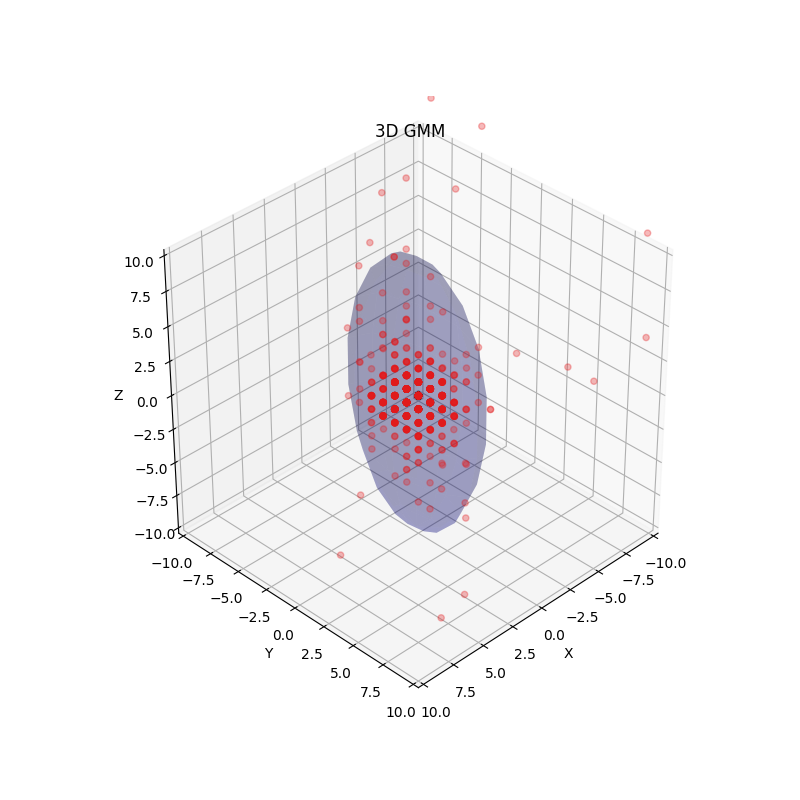
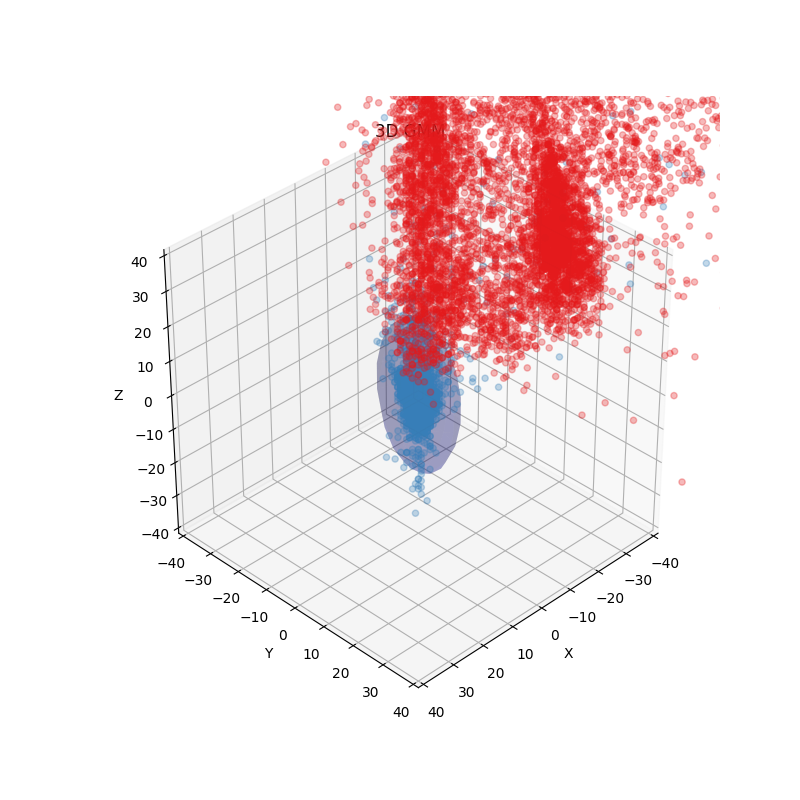
gauss mixture integrated

diff --git a/gauss_mixture.py b/gauss_mixture.py
@@ -6,7 +6,8 @@ import os
 import numpy as np
 from sklearn.mixture import GaussianMixture, BayesianGaussianMixture
 
-def visualize_3d_gmm(points, w, mu, stdev, export=True):
+
+def visualize_3d_gmm(points, points2, w, mu, stdev, export=True):
     '''
     plots points and their corresponding gmm model in 3D
     Input:
@@ -23,16 +24,21 @@ def visualize_3d_gmm(points, w, mu, stdev, export=True):
     # Visualize data
     fig = plt.figure(figsize=(8, 8))
     axes = fig.add_subplot(111, projection='3d')
-    n = 10
+    n = 40
     axes.set_xlim(np.array([-1, 1])*n)
     axes.set_ylim(np.array([-1, 1])*n)
     axes.set_zlim(np.array([-1, 1])*n)
     plt.set_cmap('Set1')
-    colors = cmx.Set1(np.linspace(0, 1, n_gaussians))
-    for i in range(n_gaussians):
+    colors = cmx.Set1([0, 1])
+    for i in range(1):
         idx = range(i * N, (i + 1) * N)
-        axes.scatter(points[idx, 0], points[idx, 1], points[idx, 2], alpha=0.3, c=colors[i])
+        axes.scatter(points[idx, 0], points[idx, 1], points[idx, 2], alpha=0.3, c=colors[1])
         plot_sphere(w=w[i], c=mu[:, i], r=stdev[:, i], ax=axes)
+
+    N = int(np.round(points2.shape[0] / n_gaussians))
+    for i in range(1):
+        idx = range(i * N, (i + 1) * N)
+        axes.scatter(points2[idx, 0], points2[idx, 1], points2[idx, 2], alpha=0.3, c=colors[0])
 
     plt.title('3D GMM')
     axes.set_xlabel('X')
@@ -45,7 +51,7 @@ def visualize_3d_gmm(points, w, mu, stdev, export=True):
     plt.show()
 
 
-def plot_sphere(w=0, c=[0,0,0], r=[1, 1, 1], subdev=10, ax=None, sigma_multiplier=3):
+def plot_sphere(w=0, c=[0,0,0], r=[1, 1, 1], subdev=10, ax=None, sigma_multiplier=1):
     '''
         plot a sphere surface
         Input:
@@ -112,132 +118,89 @@ def visualize_2D_gmm(points, w, mu, stdev, export=True):
 
     plt.show()
 
-def efit(x, y, z):
-    x = np.asarray(x, float)
-    y = np.asarray(y, float)
-    z = np.asarray(z, float)
-    D = [
-        x * x + y * y - 2 * z * z, x * x + z * z - 2 * y * y, 2 * x * y,
-        2 * x * z, 2 * y * z, 2 * x, 2 * y, 2 * z, 1 + 0 * x
-    ]
-    D = np.array(D)
 
-    d2 = x * x + y * y + z * z
-    d2 = d2.reshape((d2.shape[0], 1))
-    Q = np.dot(D, D.T)
-    b = np.dot(D, d2)
-    u = np.linalg.solve(Q, b)
-
-    v = np.zeros((u.shape[0] + 1, u.shape[1]))
-    v[0] = u[0] + u[1] - 1
-    v[1] = u[0] - 2 * u[1] - 1
-    v[2] = u[1] - 2 * u[0] - 1
-    v[3:10] = u[2:9]
-
-    A = np.array([
-        v[0], v[3], v[4], v[6], v[3], v[1], v[5], v[7], v[4], v[5], v[2], v[8],
-        v[6], v[7], v[8], v[9]
-    ]).reshape((4, 4))
-
-    center = np.linalg.solve(-A[:3, :3], v[6:9])
-    T = np.eye(4)
-    T[3, :3] = center.T
-    center = center.reshape((3, ))
-    R = T.dot(A).dot(T.conj().T)
-    evals, evecs = np.linalg.eig(R[:3, :3] / -R[3, 3])
-
-    idx = np.argsort(evals)
-    evals = evals[idx]
-    evecs = evecs[:, idx]
-    sgns = np.sign(evals)
-    radii = np.sqrt(sgns / evals)
-
-    d = np.array([x - center[0], y - center[1], z - center[2]])
-    d = np.dot(d.T, evecs)
-    d = np.array([d[:, 0] / radii[0], d[:, 1] / radii[1],
-                  d[:, 2] / radii[2]]).T
-    chi2 = np.sum(
-        np.abs(1 - np.sum(d**2 * np.tile(sgns, (d.shape[0], 1)), axis=1)))
-
-    return center, radii, evecs, v, chi2
+def remove_noise_gauss(pts, std_iters=2, std_range=2, axis=0):
+    for i in range(std_iters):
+        mean, std = np.mean(pts[:, axis]), np.std(pts[:, axis])
+        pts = pts[np.abs((pts[:, axis] - mean)) < std_range * std]
+    return pts
 
 
+def get_elps_pts(pts, c, r):
+    arr = ((pts[:, 0] - c[0])**2 / (r[0]**2) + (pts[:, 1] - c[1])**2 / (r[1]**2) + (pts[:, 2] - c[2])**2 / (r[2]**2)) \
+          < 1
+    return pts[arr]
 
-bckg_pts_all = np.load("/home/cstar/workspace/grid-data/bckg_pts_all.npy")[::1000]
-frg_pts_all = np.load("/home/cstar/workspace/grid-data/frg_pts_all.npy")
-print("bckg_pts shape: ", bckg_pts_all.shape, bckg_pts_all.dtype)
 
-bckg_pts_all = bckg_pts_all[np.abs(bckg_pts_all[:,0]) < 10]
-bckg_pts_all = bckg_pts_all[np.abs(bckg_pts_all[:,1]) < 50]
-bckg_pts_all = bckg_pts_all[np.abs(bckg_pts_all[:,2]) < 50]
+def get_ellipse(bckg_pts_all, frg_pts_all):
+    bckg_pts_all_prev = bckg_pts_all.copy()
+    bckg_pts_all = remove_noise_gauss(bckg_pts_all, std_iters=1, std_range=7, axis=0)
+    bckg_pts_all = remove_noise_gauss(bckg_pts_all, std_iters=1, std_range=7, axis=1)
+    bckg_pts_all = remove_noise_gauss(bckg_pts_all, std_iters=1, std_range=7, axis=2)
 
-histogram, bin_edges = np.histogram(bckg_pts_all[:,2], bins=512, range=(-100, 100))
+    histogram, bin_edges = np.histogram(bckg_pts_all[:, 0], bins=512, range=(-100, 100))
+    plt.figure()
+    plt.title("Image Difference Histogram, #1")
+    plt.xlabel("Intensity")
+    plt.ylabel("Count")
+    plt.ylim([0, 100])  # <- named arguments do not work here
+    plt.plot(bin_edges[0:-1], histogram)  # <- or here
+    plt.show()
 
-plt.figure()
-plt.title("Image Difference Histogram, #1")
-plt.xlabel("Intensity")
-plt.ylabel("Count")
-plt.ylim([0, 100])  # <- named arguments do not work here
-plt.plot(bin_edges[0:-1], histogram)  # <- or here
-plt.show()
-# create the histogram, plot #2
+    # create the histogram, plot #2
 
-x_mean, x_std = np.mean(bckg_pts_all[:, 0]), np.std(bckg_pts_all[:, 0])
-y_mean, y_std = np.mean(bckg_pts_all[:, 1]), np.std(bckg_pts_all[:, 1])
-z_mean, z_std = np.mean(bckg_pts_all[:, 2]), np.std(bckg_pts_all[:, 2])
+    # x_mean, x_std = np.mean(bckg_pts_all[:, 0]), np.std(bckg_pts_all[:, 0])
+    # y_mean, y_std = np.mean(bckg_pts_all[:, 1]), np.std(bckg_pts_all[:, 1])
+    # z_mean, z_std = np.mean(bckg_pts_all[:, 2]), np.std(bckg_pts_all[:, 2])
 
-# bckg_pts_all[:, 0] = (bckg_pts_all[:, 0] - x_mean) / x_std
-# bckg_pts_all[:, 1] = (bckg_pts_all[:, 1] - y_mean) / y_std
-# bckg_pts_all[:, 2] = (bckg_pts_all[:, 2] - z_mean) / z_std
+    # bckg_pts_all[:, 0] = (bckg_pts_all[:, 0] - x_mean) / x_std
+    # bckg_pts_all[:, 1] = (bckg_pts_all[:, 1] - y_mean) / y_std
+    # bckg_pts_all[:, 2] = (bckg_pts_all[:, 2] - z_mean) / z_std
 
-print(x_mean, x_std)
-print(y_mean, y_std)
-print(z_mean, z_std)
-## Generate synthetic data
-N, D = 1000, 3  # number of points and dimenstinality
+    n_gaussians = 1  # means.shape[0]
+    #
+    points = bckg_pts_all.copy()
+
+    # fit the gaussian model
+    gmm = BayesianGaussianMixture(n_components=n_gaussians, covariance_type='diag', weight_concentration_prior=1,
+                                  weight_concentration_prior_type='dirichlet_process')  # 'diag'
+    gmm.fit(points)
+
+    c = gmm.means_.reshape(3)
+    r = np.sqrt(gmm.covariances_).reshape(3) * 8
+    elp_pts = get_elps_pts(points, c, r)
+
+    print(f"final ellipse: \t{c}\n\t{r}")
+    print(
+        f"number of points reduced by {(len(bckg_pts_all_prev) - len(bckg_pts_all)) / len(bckg_pts_all_prev) * 100 :.2f}%")
+
+    frg_pts_elp = get_elps_pts(frg_pts_all, c, r)
+    print(f"{(len(frg_pts_elp)) / len(frg_pts_all) * 100 :.2f}% of frg points are in ellipse")
+    # visualize
+    visualize_3d_gmm(bckg_pts_all_prev, frg_pts_all, gmm.weights_, gmm.means_.T, np.sqrt(gmm.covariances_).T * 8)
+
+    return c, r
+
+# arr_name = f"G10-Z10-D500-0"
+# bckg_pts_all = np.load(f"/home/cstar/workspace/grid-data/diff-data-arr/bckg_pts_dataset-{arr_name}.npy")[::50]
+# frg_pts_all = np.load(f"/home/cstar/workspace/grid-data/diff-data-arr/frg_pts_dataset-{arr_name}.npy")[::10]
+# # filter zeros
+# frg_pts_all = frg_pts_all[np.any(frg_pts_all, axis=1)]
 #
-# if D == 2:
-#     #set gaussian ceters and covariances in 2D
-#     means = np.array([[0.5, 0.0],
-#                       [0, 0],
-#                       [-0.5, -0.5],
-#                       [-0.8, 0.3]])
-#     covs = np.array([np.diag([0.01, 0.01]),
-#                      np.diag([0.025, 0.01]),
-#                      np.diag([0.01, 0.025]),
-#                      np.diag([0.01, 0.01])])
-# elif D == 3:
-#     # set gaussian ceters and covariances in 3D
-#     means = np.array([[0.5, 0.0, 0.0],
-#                       [0.0, 0.0, 0.0],
-#                       [-0.5, -0.5, -0.5],
-#                       [-0.8, 0.3, 0.4]])
-#     covs = np.array([np.diag([0.01, 0.01, 0.03]),
-#                      np.diag([0.08, 0.01, 0.01]),
-#                      np.diag([0.01, 0.05, 0.01]),
-#                      np.diag([0.03, 0.07, 0.01])])
+# print("bckg_pts shape: ", bckg_pts_all.shape)
+# print("frg_pts shape: ", frg_pts_all.shape)
 #
-n_gaussians = 1  # means.shape[0]
+# # bckg_pts_all = bckg_pts_all[np.abs(bckg_pts_all[:,0]) < 10]
+# # bckg_pts_all = bckg_pts_all[np.abs(bckg_pts_all[:,1]) < 50]
+# # bckg_pts_all = bckg_pts_all[np.abs(bckg_pts_all[:,2]) < 50]
 #
-# points = []
-# for i in range(len(means)):
-#     x = np.random.multivariate_normal(means[i], covs[i], N)
-#     points.append(x)
-# points = np.concatenate(points)
-points = bckg_pts_all.copy()
-print(points.shape)
-
-#fit the gaussian model
-gmm = BayesianGaussianMixture(n_components=n_gaussians, covariance_type='diag', weight_concentration_prior=1,
-                              weight_concentration_prior_type='dirichlet_process')  # 'diag'
-gmm.fit(points)
-
-print(gmm.covariances_)
-print(gmm.weights_, gmm.means_.T, np.sqrt(gmm.covariances_).T)
-#visualize
-if D == 2:
-    visualize_2D_gmm(points, gmm.weights_, gmm.means_.T, np.sqrt(gmm.covariances_).T)
-elif D == 3:
-    visualize_3d_gmm(points, gmm.weights_, gmm.means_.T, np.sqrt(gmm.covariances_).T)
-
-
+# histogram, bin_edges = np.histogram(bckg_pts_all[:, 0], bins=512, range=(-100, 100))
+# plt.figure()
+# plt.title("Image Difference Histogram, #1")
+# plt.xlabel("Intensity")
+# plt.ylabel("Count")
+# plt.ylim([0, 100])  # <- named arguments do not work here
+# plt.plot(bin_edges[0:-1], histogram)  # <- or here
+# plt.show()
+#
+# c, r = get_ellipse(bckg_pts_all, frg_pts_all)

diff --git a/img_diff_c9_data_mining.py b/img_diff_c9_data_mining.py
@@ -4,7 +4,7 @@ import numpy as np
 import os
 from scipy import stats
 from scipy.io import savemat
-
+import gauss_mixture
 
 def normalize_img(img):
     assert (len(img.shape) == 2)
@@ -94,6 +94,17 @@ def classify_circle(img, rad=10, cx=0,  cy=0, cz=0):
     return res
 
 
+def classify_ellipse(img, c, r):
+    img = img.astype(np.float16)
+    ch1 = ((img[:, :, 0] - c[0]) ** 2) / r[0] ** 2
+    ch2 = ((img[:, :, 1] - c[1]) ** 2) / r[1] ** 2
+    ch3 = ((img[:, :, 2] - c[2]) ** 2) / r[2] ** 2
+    val_ch = ch1 + ch2 + ch3
+    res = np.zeros(img.shape[:2]).astype(np.uint8)
+    res[val_ch > 1] = 255
+    return res
+
+
 def avg_img_from_path(inp_img_nospag_paths):
     img_noshadows_avg = np.zeros((720, 1280, 3)).astype(np.uint64)
     for i1 in range(len(inp_img_nospag_paths)):
@@ -127,6 +138,16 @@ def plt_show_img(im, title="", cmap=None, to_rgb=False):
     plt.imshow(im, cmap=cmap)
     plt.show()
 
+
+arr_name = f"G10-Z50-D500-0"
+bckg_pts_all = np.load(f"/home/cstar/workspace/grid-data/diff-data-arr/bckg_pts_dataset-{arr_name}.npy")[::50]
+frg_pts_all = np.load(f"/home/cstar/workspace/grid-data/diff-data-arr/frg_pts_dataset-{arr_name}.npy")[::10]
+# filter zeros
+frg_pts_all = frg_pts_all[np.any(frg_pts_all, axis=1)]
+
+print(f"len bckg {len(bckg_pts_all)} \nlen frg: {len(frg_pts_all)}")
+c, r = gauss_mixture.get_ellipse(bckg_pts_all, frg_pts_all)
+
 data_dir = 'dataset-G10-Z50-D500-0'
 data_spag_path = f'/home/cstar/workspace/grid-data/preproc_data/{data_dir}/dataset-im-diff-spag-avg-3/'
 
@@ -136,7 +157,7 @@ inp_path_mask = os.path.join(data_spag_path, 'masks/train/')
 
 inp_path_nospag = f'/home/cstar/workspace/grid-data/preproc_data/{data_dir}/no-shadow/'  # should be not avg-3
 inp_img_nospag_paths = get_img_paths(inp_path_nospag)
-display = False
+display = True
 bckg_pts_all = np.empty((0, 3))
 frg_pts_all = np.empty((0, 3))
 
@@ -164,7 +185,7 @@ for i2 in range(len(inp_img_spag_paths)):
     pts_Z10 = np.array([[1093, 647], [1096, 177], [523, 90], [0, 230], [0, 240]])
     pts_Z30 = np.array([[0, 347], [569, 128], [1080, 220], [1008, 719], [683, 719], [0, 356]])
     pts_Z50 = np.array([[0, 347], [569, 128], [1080, 220], [1008, 719], [553, 719], [0, 356]])
-    pts = pts_Z50
+    pts = pts_Z10
     pts = pts.reshape((-1, 1, 2))
     maskAOI = getAOIMask(img_shape=im1.shape, poly_pts=pts)
 
@@ -181,7 +202,8 @@ for i2 in range(len(inp_img_spag_paths)):
     bckg_pts_all = np.append(bckg_pts_all, bckg_pts, axis=0)
     frg_pts_all = np.append(frg_pts_all, frg_pts, axis=0)
 
-    cl_res = classify_circle(im_diff[:, :, :], rad=10, cx=0,  cy=0, cz=0)
+    # cl_res = classify_circle(im_diff[:, :, :], rad=10, cx=0,  cy=0, cz=0)
+    cl_res = classify_ellipse(im_diff[:, :, :], c, r)
 
     im2 = draw_rect(im2, cl_res)
     im2 = cv.polylines(im2, [pts], True, (255,0,0))
@@ -193,13 +215,13 @@ for i2 in range(len(inp_img_spag_paths)):
 
 
 
-bckg_pts_all_dict = {"data": bckg_pts_all, "label": "experiment"}
-savemat("/home/cstar/workspace/grid-data/bckg_pts_all.mat", bckg_pts_all_dict)
-np.save("/home/cstar/workspace/grid-data/bckg_pts_all.npy", bckg_pts_all)
-
-frg_pts_all_dict = {"data": frg_pts_all, "label": "experiment"}
-savemat("/home/cstar/workspace/grid-data/frg_pts_all.mat", frg_pts_all_dict)
-np.save("/home/cstar/workspace/grid-data/frg_pts_all.npy", frg_pts_all)
+# bckg_pts_all_dict = {"data": bckg_pts_all, "label": "experiment"}
+# savemat(f"/home/cstar/workspace/grid-data/diff-data-arr/bckg_pts_{data_dir}.mat", bckg_pts_all_dict)
+# np.save(f"/home/cstar/workspace/grid-data/diff-data-arr/bckg_pts_{data_dir}.npy", bckg_pts_all)
+#
+# frg_pts_all_dict = {"data": frg_pts_all, "label": "experiment"}
+# savemat(f"/home/cstar/workspace/grid-data/diff-data-arr/frg_pts_{data_dir}.mat", frg_pts_all_dict)
+# np.save(f"/home/cstar/workspace/grid-data/diff-data-arr/frg_pts_{data_dir}.npy", frg_pts_all)
 
 # plots ######################################################################
 # print(res_imgs.shape)
